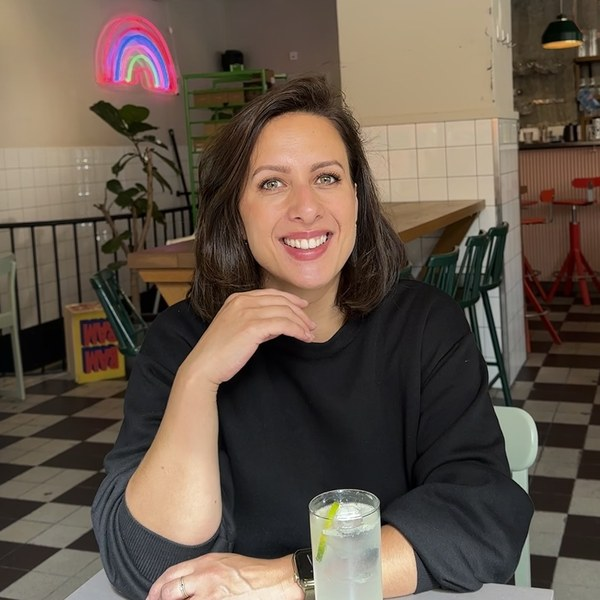
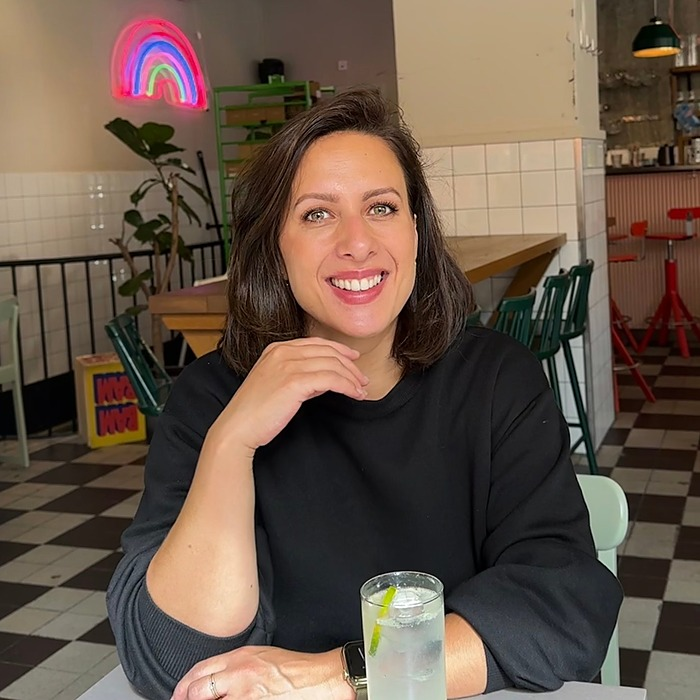
Scherpere foto Josta, menu hover: blauwe letters zonder vlak
Claude-Session: https://claude.ai/code/session_019qPekGDdUwgqVTfZ15Ud5q

diff --git a/src/template.html b/src/template.html
@@ -25,7 +25,7 @@ html{scroll-behavior:smooth}
 a{color:var(--c-hoofd)}a:hover{color:var(--c-donker)}
 .m-nav a{color:var(--c-achtergrond);text-decoration:none;padding:12px 14px}
 .m-nav a{transition:background-color .2s ease,color .2s ease}
-.m-nav a:hover,.m-nav a:focus-visible{background:#87989D;color:var(--c-donker)}
+.m-nav a:hover,.m-nav a:focus-visible{background:none;color:#87989D}
 .c-wrap{width:100%;display:flex;flex-wrap:wrap;justify-content:center;align-items:flex-start;gap:36px 72px;margin-top:20px;padding-top:28px;border-top:1px solid var(--c-contact)}
 .c-col{display:flex;flex-direction:column;align-items:center;gap:10px}
 .c-mail{display:inline-flex;align-items:center;gap:10px;flex-wrap:wrap;justify-content:center}
